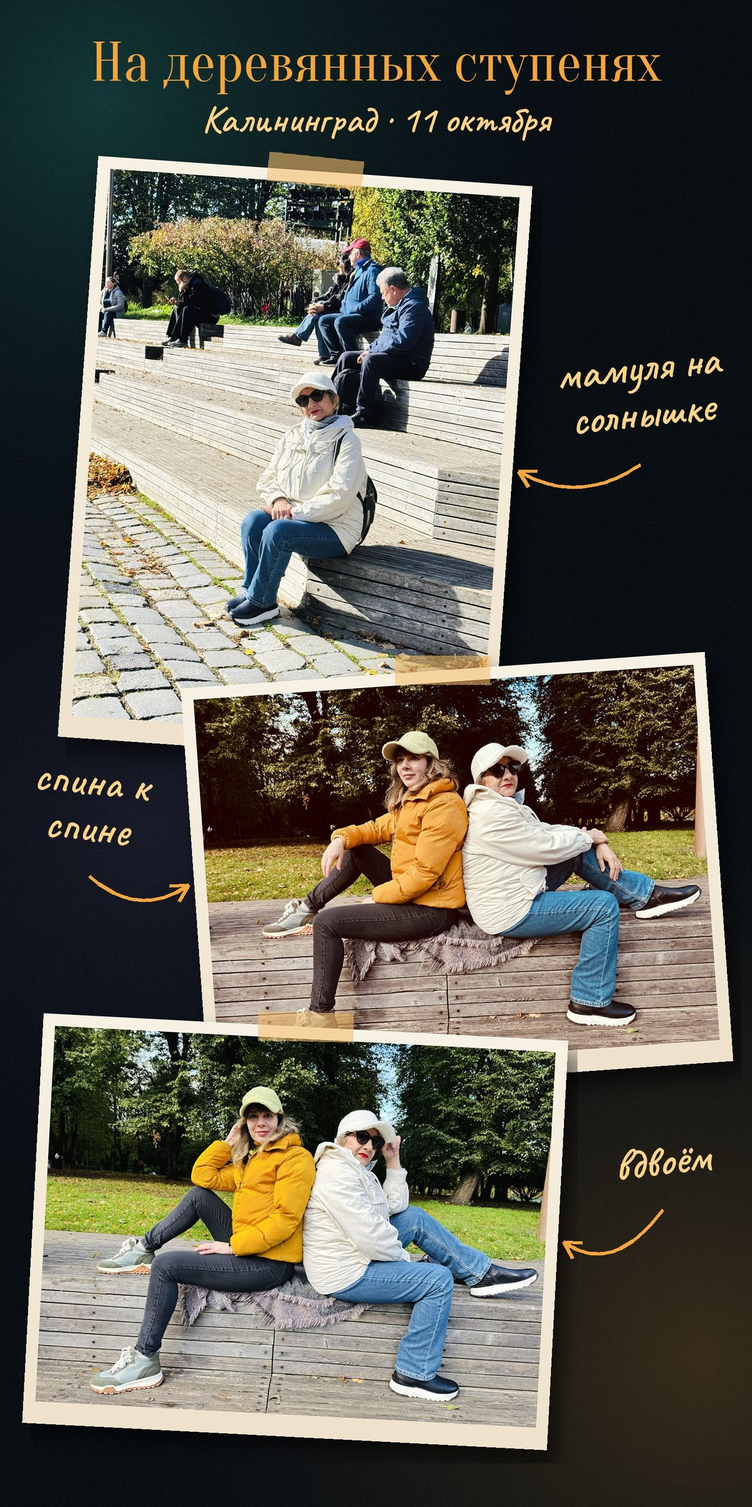
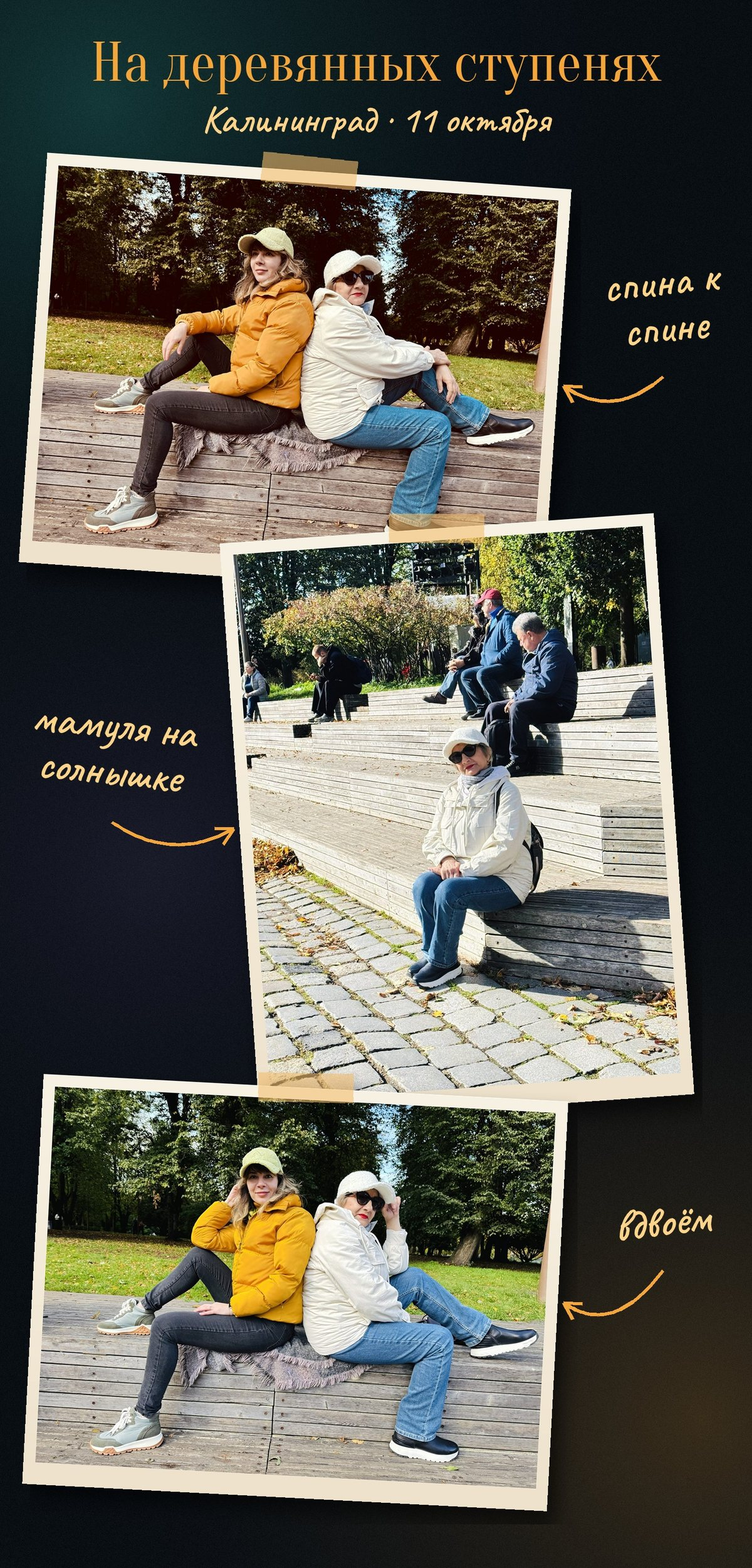
Альбом «Калининград»: страница «На деревянных ступенях» — мамуля в центре
По просьбе: сверху «спина к спине», в центре «мамуля на солнышке», снизу «вдвоём».

Claude-Session: https://claude.ai/code/session_01BUmNQ2Kk9fTi5P6tnA3gYJ

diff --git a/kaliningrad/album/index.html b/kaliningrad/album/index.html
@@ -665,7 +665,7 @@ body.picking .wrap{padding-bottom:calc(var(--nav-h) + 230px + env(safe-area-inse
  {"id": "d1-45", "day": 1, "src": "photos/d1-45.jpg", "thumb": "photos/t/d1-45.jpg", "w": 1500, "h": 2000, "place": "preg", "title": "Мамуля на мосту с замочками", "date": "2026-10-11"},
  {"id": "d1-80", "day": 1, "src": "photos/d1-80.jpg", "thumb": "photos/t/d1-80.jpg", "w": 1200, "h": 2906, "place": "preg", "title": "Мамуля на мосту", "date": "2026-10-11", "collage": true},
  {"id": "d1-49", "day": 1, "src": "photos/d1-49.jpg", "thumb": "photos/t/d1-49.jpg", "w": 1500, "h": 2000, "place": "preg", "title": "Я на мосту в солнечный день", "date": "2026-10-11"},
- {"id": "d1-82", "day": 1, "src": "photos/d1-82.jpg", "thumb": "photos/t/d1-82.jpg", "w": 1200, "h": 2405, "town": "kgd", "title": "На деревянных ступенях", "date": "2026-10-11", "collage": true},
+ {"id": "d1-82", "day": 1, "src": "photos/d1-82.jpg?v=2", "thumb": "photos/t/d1-82.jpg?v=2", "w": 1200, "h": 2501, "town": "kgd", "title": "На деревянных ступенях", "date": "2026-10-11", "collage": true},
  {"id": "d1-81", "day": 1, "src": "photos/d1-81.jpg", "thumb": "photos/t/d1-81.jpg", "w": 1200, "h": 2906, "town": "kgd", "title": "Селфи с мамулей", "date": "2026-10-11", "collage": true},
  {"id": "d1-52", "day": 1, "src": "photos/d1-52.jpg", "thumb": "photos/t/d1-52.jpg", "w": 1500, "h": 2000, "town": "kgd", "title": "Памятная монета «Калининград»", "date": "2026-10-11"},
  {"id": "d1-58", "day": 1, "src": "photos/d1-58.jpg", "thumb": "photos/t/d1-58.jpg", "w": 1500, "h": 2000, "town": "kgd", "title": "Ресторан «Хофбург»", "date": "2026-10-11"},
